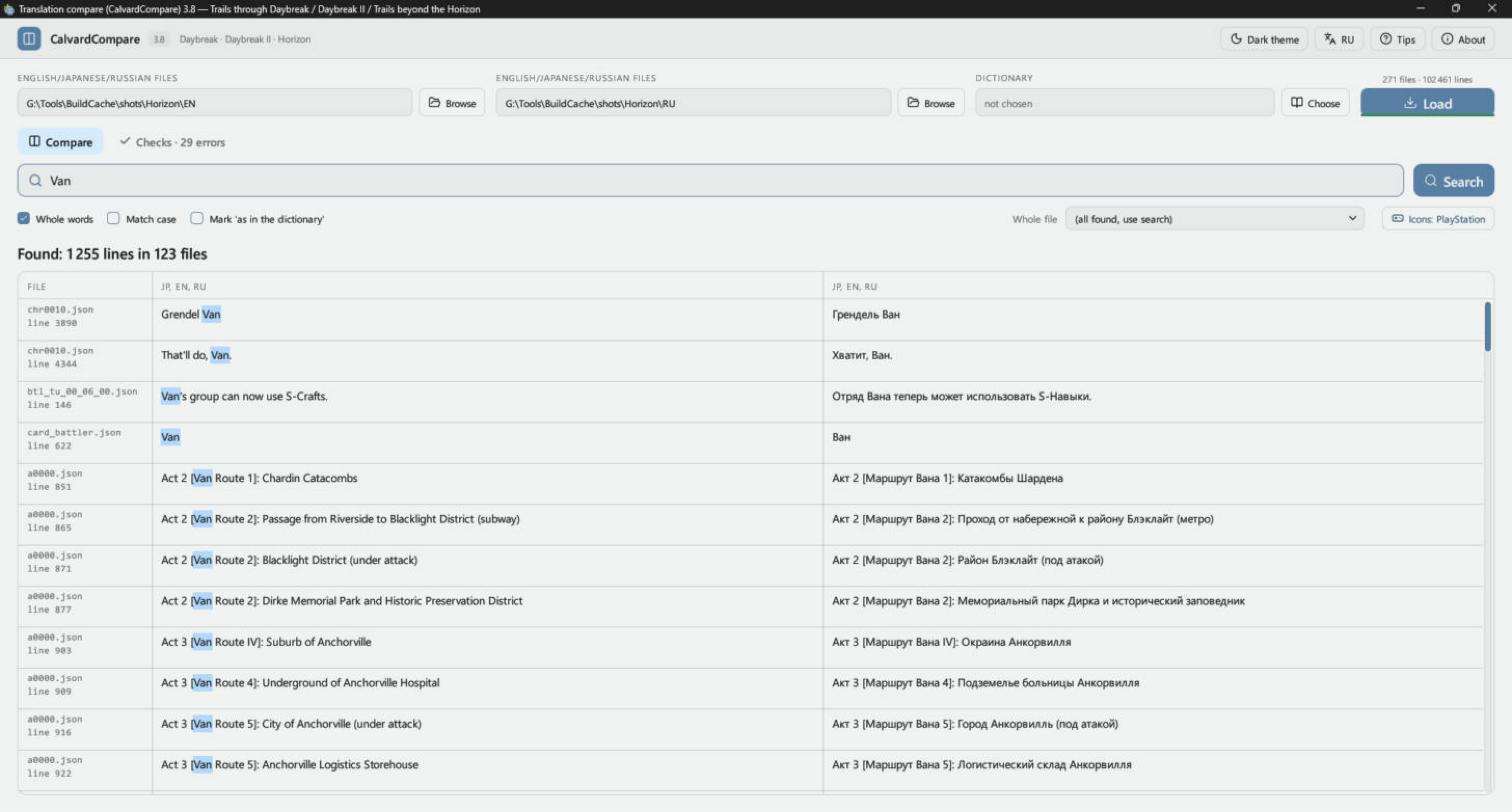
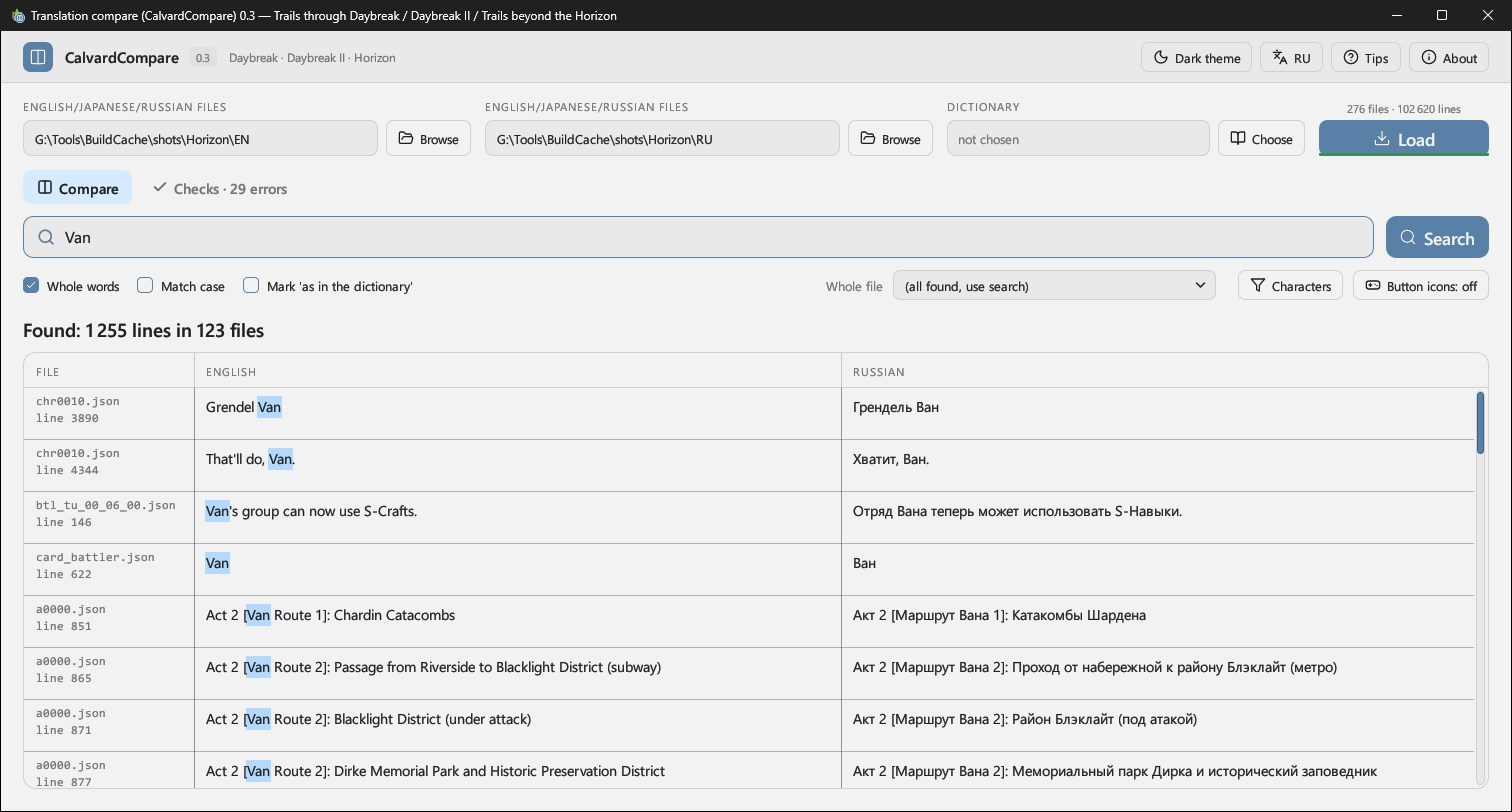
Docs: new 0.3 screenshots
Screenshots of CalvardTool and CalvardCompare 0.3, plus two new ones: the Folder structure step and the JP | EN column buttons.

diff --git a/README_RU.md b/README_RU.md
@@ -33,9 +33,13 @@ CalvardTool:
 
 ![Выбор файлов для разборки](docs/screenshot_tool_files.jpg)
 
+![Выбор структуры папок проекта](docs/screenshot_tool_folders.jpg)
+
 CalvardCompare:
 
 ![Сравнение двух языков по строкам](docs/screenshot_compare.jpg)
+
+![Японский текст рядом с переводом, переключается кнопками JP | EN](docs/screenshot_compare_jp.jpg)
 
 ![Проверки перевода](docs/screenshot_checks.jpg)
 

diff --git a/README.md b/README.md
@@ -31,9 +31,13 @@ CalvardTool:
 
 ![Choosing what to decompile](docs/screenshot_tool_files.jpg)
 
+![Choosing the project folder structure](docs/screenshot_tool_folders.jpg)
+
 CalvardCompare:
 
 ![Comparing two languages line by line](docs/screenshot_compare.jpg)
+
+![Japanese text next to the translation, switched with the JP | EN buttons](docs/screenshot_compare_jp.jpg)
 
 ![Translation checks](docs/screenshot_checks.jpg)
 
